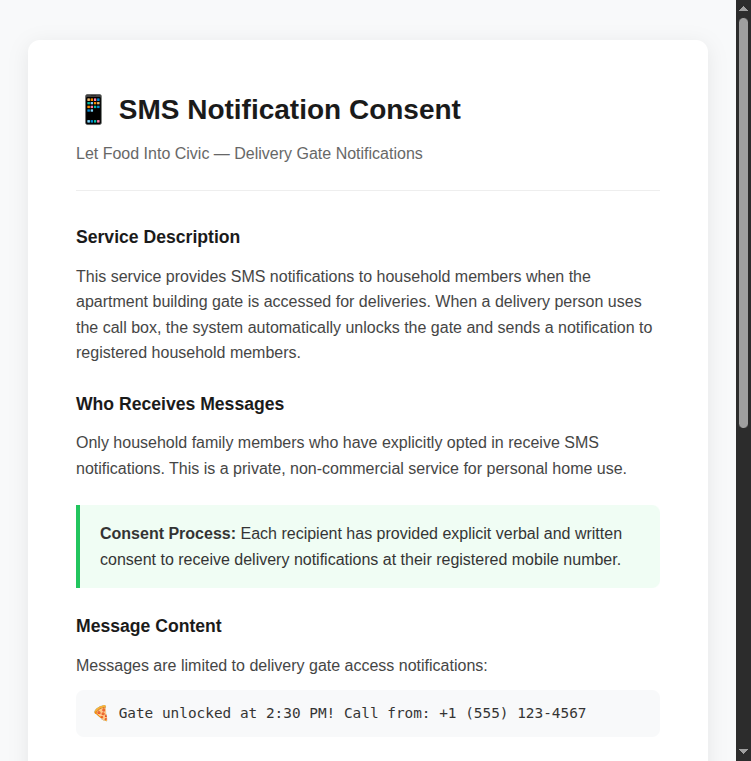
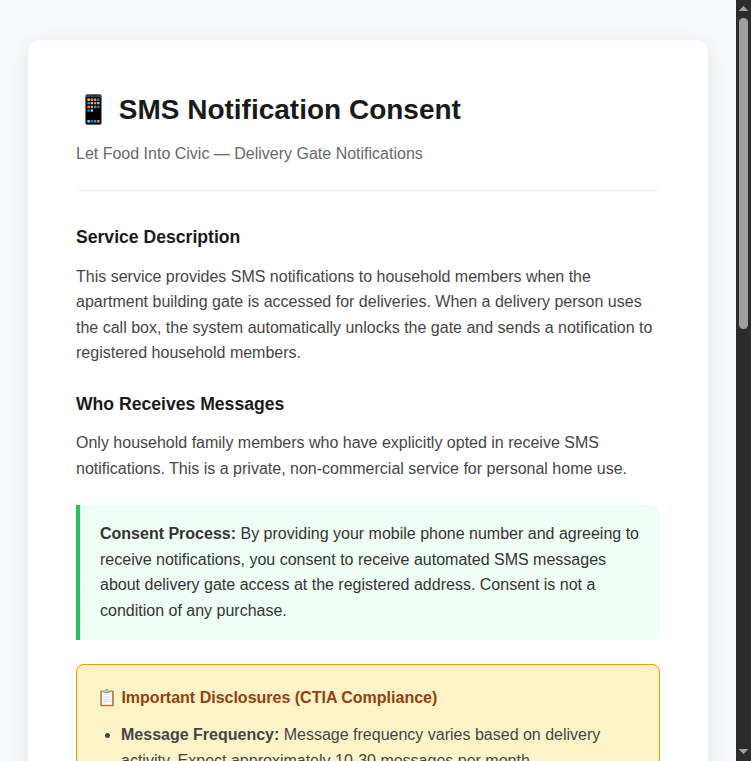
Add CTIA-required disclosures to SMS consent page
Toll-free verification was rejected because:
- Missing CTIA disclosures

Added required elements:
- Message frequency disclosure
- 'Message and data rates may apply'
- STOP to unsubscribe instructions
- HELP for assistance
- Privacy policy link
- Contact information

Updated screenshot for verification image URL

Changed region(s): [[0.0919, 0.6951, 0.8881, 1.0], [0.98, 0.4231, 1.0, 0.5742]]

diff --git a/src/main.py b/src/main.py
@@ -249,7 +249,7 @@ def index():
 
 @app.route('/sms-consent', methods=['GET'])
 def sms_consent():
-    """SMS consent disclosure page for toll-free verification."""
+    """SMS consent disclosure page for toll-free verification with CTIA-required disclosures."""
     return '''
     <!DOCTYPE html>
     <html lang="en">
@@ -305,6 +305,24 @@ def sms_consent():
                 margin: 24px 0;
                 border-radius: 0 8px 8px 0;
             }
+            .ctia-disclosure {
+                background: #fef3c7;
+                border: 1px solid #f59e0b;
+                padding: 20px;
+                margin: 24px 0;
+                border-radius: 8px;
+            }
+            .ctia-disclosure h3 {
+                color: #92400e;
+                margin-bottom: 12px;
+                font-size: 1rem;
+            }
+            .ctia-disclosure ul {
+                margin-bottom: 0;
+            }
+            .ctia-disclosure li {
+                margin-bottom: 8px;
+            }
             .example {
                 background: #f8f9fa;
                 padding: 12px 16px;
@@ -338,28 +356,41 @@ def sms_consent():
                This is a private, non-commercial service for personal home use.</p>
             
             <div class="highlight">
-                <strong>Consent Process:</strong> Each recipient has provided explicit verbal and 
-                written consent to receive delivery notifications at their registered mobile number.
+                <strong>Consent Process:</strong> By providing your mobile phone number and agreeing 
+                to receive notifications, you consent to receive automated SMS messages about 
+                delivery gate access at the registered address. Consent is not a condition of 
+                any purchase.
+            </div>
+            
+            <div class="ctia-disclosure">
+                <h3>📋 Important Disclosures (CTIA Compliance)</h3>
+                <ul>
+                    <li><strong>Message Frequency:</strong> Message frequency varies based on delivery activity. Expect approximately 10-30 messages per month.</li>
+                    <li><strong>Message and Data Rates:</strong> Message and data rates may apply. Check with your mobile carrier for details.</li>
+                    <li><strong>Opt-Out:</strong> Reply <strong>STOP</strong> to any message to unsubscribe and stop receiving notifications.</li>
+                    <li><strong>Help:</strong> Reply <strong>HELP</strong> for assistance or contact the household administrator.</li>
+                    <li><strong>Privacy:</strong> Your phone number will not be shared with third parties. See our <a href="https://contrived.com/privacy">Privacy Policy</a> for details.</li>
+                </ul>
             </div>
             
             <h2>Message Content</h2>
             <p>Messages are limited to delivery gate access notifications:</p>
             <div class="example">🍕 Gate unlocked at 2:30 PM! Call from: +1 (555) 123-4567</div>
             
-            <h2>Message Frequency</h2>
+            <h2>Opt-Out Instructions</h2>
+            <p>You may opt out at any time by:</p>
             <ul>
-                <li>Messages are sent only when the gate is accessed</li>
-                <li>Typical volume: 10-30 messages per month</li>
-                <li>No marketing or promotional content</li>
+                <li>Replying <strong>STOP</strong> to any message</li>
+                <li>Contacting the household administrator to have your number removed</li>
             </ul>
+            <p>After opting out, you will receive a confirmation message and no further notifications.</p>
             
-            <h2>Opt-Out</h2>
-            <p>Recipients may opt out at any time by contacting the household administrator 
-               to have their number removed from the notification list. Reply STOP to any 
-               message to unsubscribe.</p>
-            
-            <h2>Contact</h2>
-            <p>For questions about this service, contact the household administrator directly.</p>
+            <h2>Contact &amp; Support</h2>
+            <p>For questions about this service:</p>
+            <ul>
+                <li>Reply <strong>HELP</strong> to any message</li>
+                <li>Email: sean.reardon@contrived.com</li>
+            </ul>
             
             <div class="footer">
                 <p>Last updated: December 2024</p>
